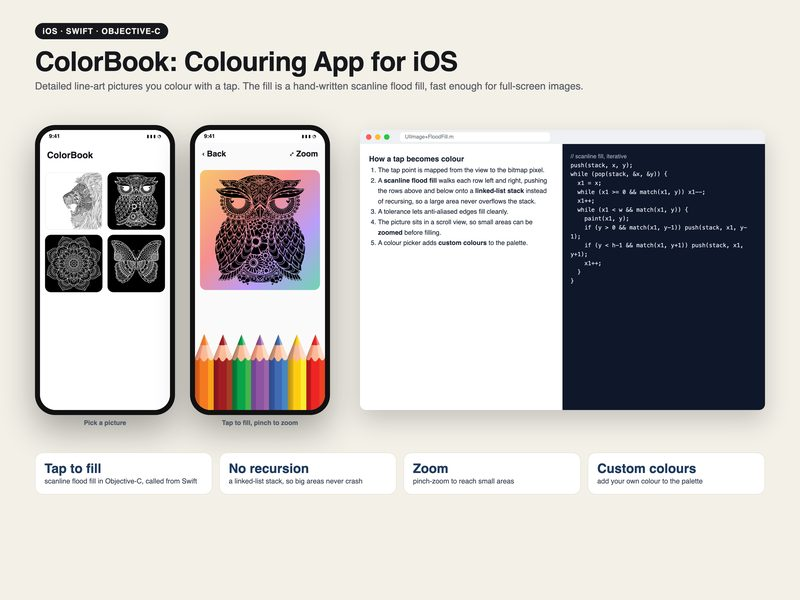
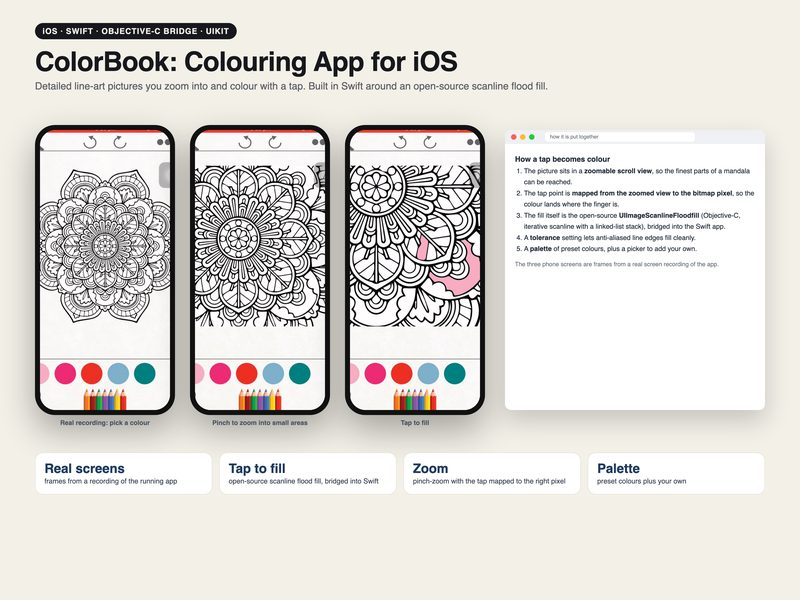
ColorBook: real screens from the app recording; the flood fill is credited to the open-source library it uses

diff --git a/case-studies/colorbook-ios-colouring-app-flood-fill/index.html b/case-studies/colorbook-ios-colouring-app-flood-fill/index.html
@@ -3,11 +3,11 @@
 <head>
   <meta charset="utf-8">
   <meta name="viewport" content="width=device-width, initial-scale=1, shrink-to-fit=no">
-  <title>ColorBook: an iOS Colouring App with a Hand-Written Flood Fill | Shabeeb Hasan</title>
-  <meta name="description" content="An iOS colouring app for detailed line art. A tap fills an area with colour using a scanline flood fill written in Objective-C and called from Swift.">
+  <title>ColorBook: an iOS Colouring App with Tap-to-Fill and Zoom | Shabeeb Hasan</title>
+  <meta name="description" content="An iOS colouring app for detailed line art: zoom in, tap, and the area fills with colour. Built in Swift around the open-source UIImageScanlineFloodfill library.">
   <link rel="canonical" href="https://shabeeb.baydot.net/case-studies/colorbook-ios-colouring-app-flood-fill/">
-  <meta property="og:title" content="ColorBook: an iOS Colouring App with a Hand-Written Flood Fill | Shabeeb Hasan">
-  <meta property="og:description" content="An iOS colouring app for detailed line art. A tap fills an area with colour using a scanline flood fill written in Objective-C and called from Swift.">
+  <meta property="og:title" content="ColorBook: an iOS Colouring App with Tap-to-Fill and Zoom | Shabeeb Hasan">
+  <meta property="og:description" content="An iOS colouring app for detailed line art: zoom in, tap, and the area fills with colour. Built in Swift around the open-source UIImageScanlineFloodfill library.">
   <meta property="og:type" content="article">
   <meta property="og:url" content="https://shabeeb.baydot.net/case-studies/colorbook-ios-colouring-app-flood-fill/">
   <meta property="og:image" content="https://shabeeb.baydot.net/assets/imgs/case-studies/old/colorbook-card.jpg">
@@ -19,8 +19,8 @@
     {
       "@context": "https://schema.org",
       "@type": "Article",
-      "headline": "ColorBook: an iOS Colouring App with a Hand-Written Flood Fill",
-      "description": "An iOS colouring app for detailed line art. A tap fills an area with colour using a scanline flood fill written in Objective-C and called from Swift.",
+      "headline": "ColorBook: an iOS Colouring App with Tap-to-Fill and Zoom",
+      "description": "An iOS colouring app for detailed line art: zoom in, tap, and the area fills with colour. Built in Swift around the open-source UIImageScanlineFloodfill library.",
       "author": { "@type": "Person", "name": "Shabeeb Hasan", "url": "https://shabeeb.baydot.net/" },
       "mainEntityOfPage": "https://shabeeb.baydot.net/case-studies/colorbook-ios-colouring-app-flood-fill/"
     }
@@ -53,17 +53,20 @@
 </style><div class="site-nav-links"><a href="/" class="hide-sm">Home</a><a href="/case-studies/" class="on">Case Studies</a><a href="/blog/">Blog</a><a href="/resumes/" class="hide-sm">CVs</a><a href="/contact/" class="cta">Contact</a></div><!--/site-nav--></div></nav>
   <section class="section content-page"><div class="container content-wrap">
     <a href="/case-studies/" class="back-link">Back to Case Studies</a>
-    <h1 class="content-title">ColorBook: an iOS Colouring App with a Hand-Written Flood Fill</h1>
-    <p class="content-excerpt">An iOS colouring app for detailed line art. A tap fills an area with colour using a scanline flood fill written in Objective-C and called from Swift.</p>
-    <div class="tag-row"><span>ios</span><span>swift</span><span>objective-c</span><span>image processing</span></div>
+    <h1 class="content-title">ColorBook: an iOS Colouring App with Tap-to-Fill and Zoom</h1>
+    <p class="content-excerpt">An iOS colouring app for detailed line art: zoom in, tap, and the area fills with colour. Built in Swift around the open-source UIImageScanlineFloodfill library.</p>
+    <div class="tag-row"><span>ios</span><span>swift</span><span>objective-c bridge</span><span>uikit</span></div>
     <article class="content-article">
-      <figure style="margin:22px 0"><img src="/assets/imgs/case-studies/old/colorbook.jpg" alt="ColorBook: an iOS Colouring App with a Hand-Written Flood Fill" loading="lazy" style="width:100%;border-radius:12px"><figcaption style="color:#64748b;font-size:14px;margin-top:6px">Screens use the app's own line-art pictures and palette. The fill in the second screen is illustrative.</figcaption></figure>
+      <figure style="margin:22px 0"><img src="/assets/imgs/case-studies/old/colorbook.jpg" alt="ColorBook: an iOS Colouring App with Tap-to-Fill and Zoom" loading="lazy" style="width:100%;border-radius:12px"><figcaption style="color:#64748b;font-size:14px;margin-top:6px">The three phone screens are frames from a real screen recording of the app.</figcaption></figure>
       <h2>The problem</h2>
-      <p>Detailed mandala and animal line art has thousands of small regions. A simple recursive fill is slow on full-screen images and can crash on large areas.</p>
+      <p>Mandala and animal line art has thousands of tiny regions. On a phone screen they are too small to hit with a finger, and the colour has to land exactly inside the lines.</p>
       <h2>What I built</h2>
-      <ul><li><strong>Scanline flood fill</strong> in Objective-C: each row is filled left and right in one pass, and the rows above and below go onto a linked-list stack instead of the call stack, so big areas never overflow.</li><li><strong>Tolerance</strong>, so anti-aliased line edges fill cleanly.</li><li><strong>Tap mapping</strong> from the zoomable view to the bitmap pixel, so the fill lands where the finger is.</li><li><strong>Palette</strong> of colours plus a picker for custom colours.</li></ul>
+      <ul><li><strong>Zoomable canvas.</strong> The picture sits in a scroll view, so the finest parts can be pinched into.</li>
+      <li><strong>Tap mapping.</strong> The tap point is converted from the zoomed view to the bitmap pixel, so the fill lands where the finger is.</li>
+      <li><strong>Flood fill.</strong> The fill is the open-source UIImageScanlineFloodfill library (Objective-C, iterative scanline with a linked-list stack), bridged into the Swift app with a tolerance for anti-aliased edges.</li>
+      <li><strong>Palette.</strong> Preset colours plus a picker for custom colours, and a set of line-art pictures.</li></ul>
       <h2>Stack</h2>
-      <p>Swift, Objective-C, UIKit, Core Graphics</p>
+      <p>Swift, UIKit, an Objective-C bridging header, UIImageScanlineFloodfill</p>
     </article>
     <section class="lead-box"><h2>Need something like this?</h2><p>Tell me what is broken or what you want built, and I will tell you what I would do first.</p><div class="lead-actions"><a class="btn btn-primary btn-rounded" href="/contact/">Contact Me</a></div></section>
   </div></section>
